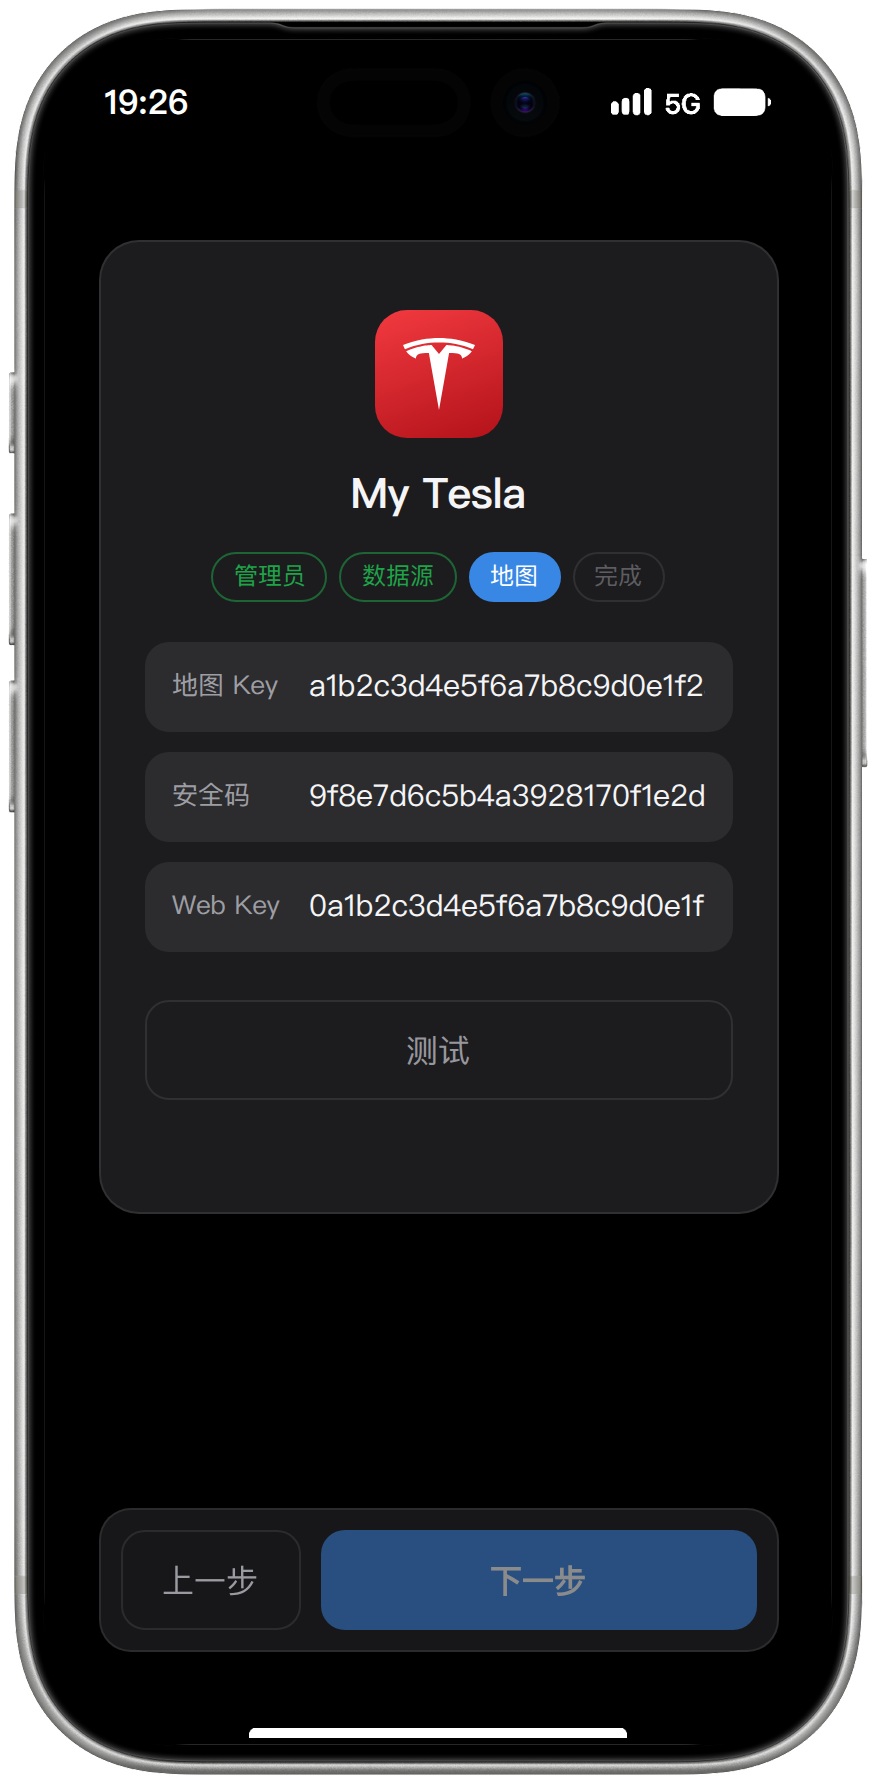
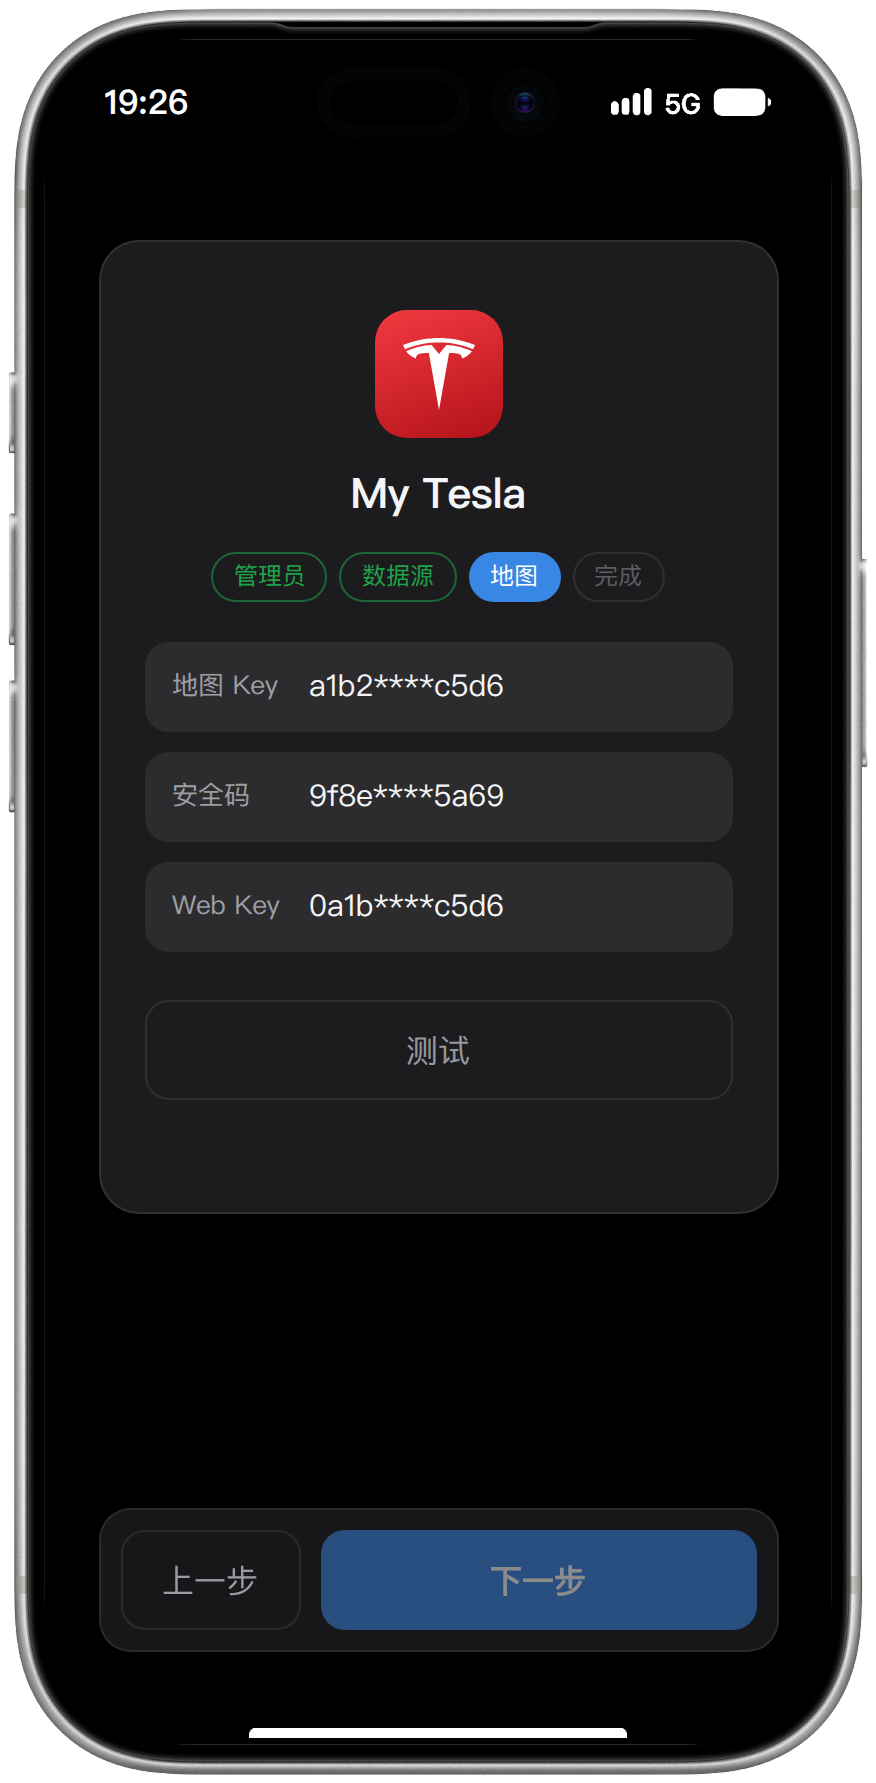
README 打磨: 向导示例图敏感信息打码 —— 第三页三个 Key 框改掩码样式 (头4尾4, 与设置页/完成页同款, 原图整串示例 Key 直出), 完成页换配套演示值; 两图 ?v 升号 (setup-3 → v4, setup-4 → v2); 标题 emoji 退役 (功能/部署/许可证)

Changed region(s): [[0.4315, 0.4936, 0.8014, 0.5244], [0.4315, 0.4319, 0.8014, 0.4627], [0.4315, 0.3702, 0.8014, 0.401]]

diff --git a/README.md b/README.md
@@ -22,7 +22,7 @@
 
 </div>
 
-## 1. ✨ 功能
+## 1. 功能
 
 <p align="center">
 <a name="shot-live"><img src="docs/screenshot-live.png?v=4" width="280" alt="状态 · My Tesla (演示数据)"></a>
@@ -80,7 +80,7 @@
 <a name="arch"><img src="docs/architecture.svg?v=7" width="800" alt="My Tesla 数据链路"></a>
 </p>
 
-## 3. 🚀 部署
+## 3. 部署
 
 需要 Python 3.13+:
 
@@ -173,7 +173,7 @@ compose 内部网络互通), 跨机器访问要先给 `database` 服务加端口
 - 只在服务端用: 把足迹轨迹拟合到实际道路
 
 <p align="center">
-<a name="shot-setup-3"><img src="docs/screenshot-setup-3.png?v=3" width="240" alt="向导第三页 · 填高德 Key"></a>
+<a name="shot-setup-3"><img src="docs/screenshot-setup-3.png?v=4" width="240" alt="向导第三页 · 填高德 Key"></a>
 </p>
 
 ### 4.4 完成
@@ -182,9 +182,9 @@ compose 内部网络互通), 跨机器访问要先给 `database` 服务加端口
 「进入应用」进入应用, 直接落到状态页。
 
 <p align="center">
-<a name="shot-setup-4"><img src="docs/screenshot-setup-4.png" width="240" alt="向导第四页 · 所填汇总与进入应用"></a>
+<a name="shot-setup-4"><img src="docs/screenshot-setup-4.png?v=2" width="240" alt="向导第四页 · 所填汇总与进入应用"></a>
 </p>
 
-## 5. 📄 许可证
+## 5. 许可证
 
 [MIT](./LICENSE) © 2026 kinopico
